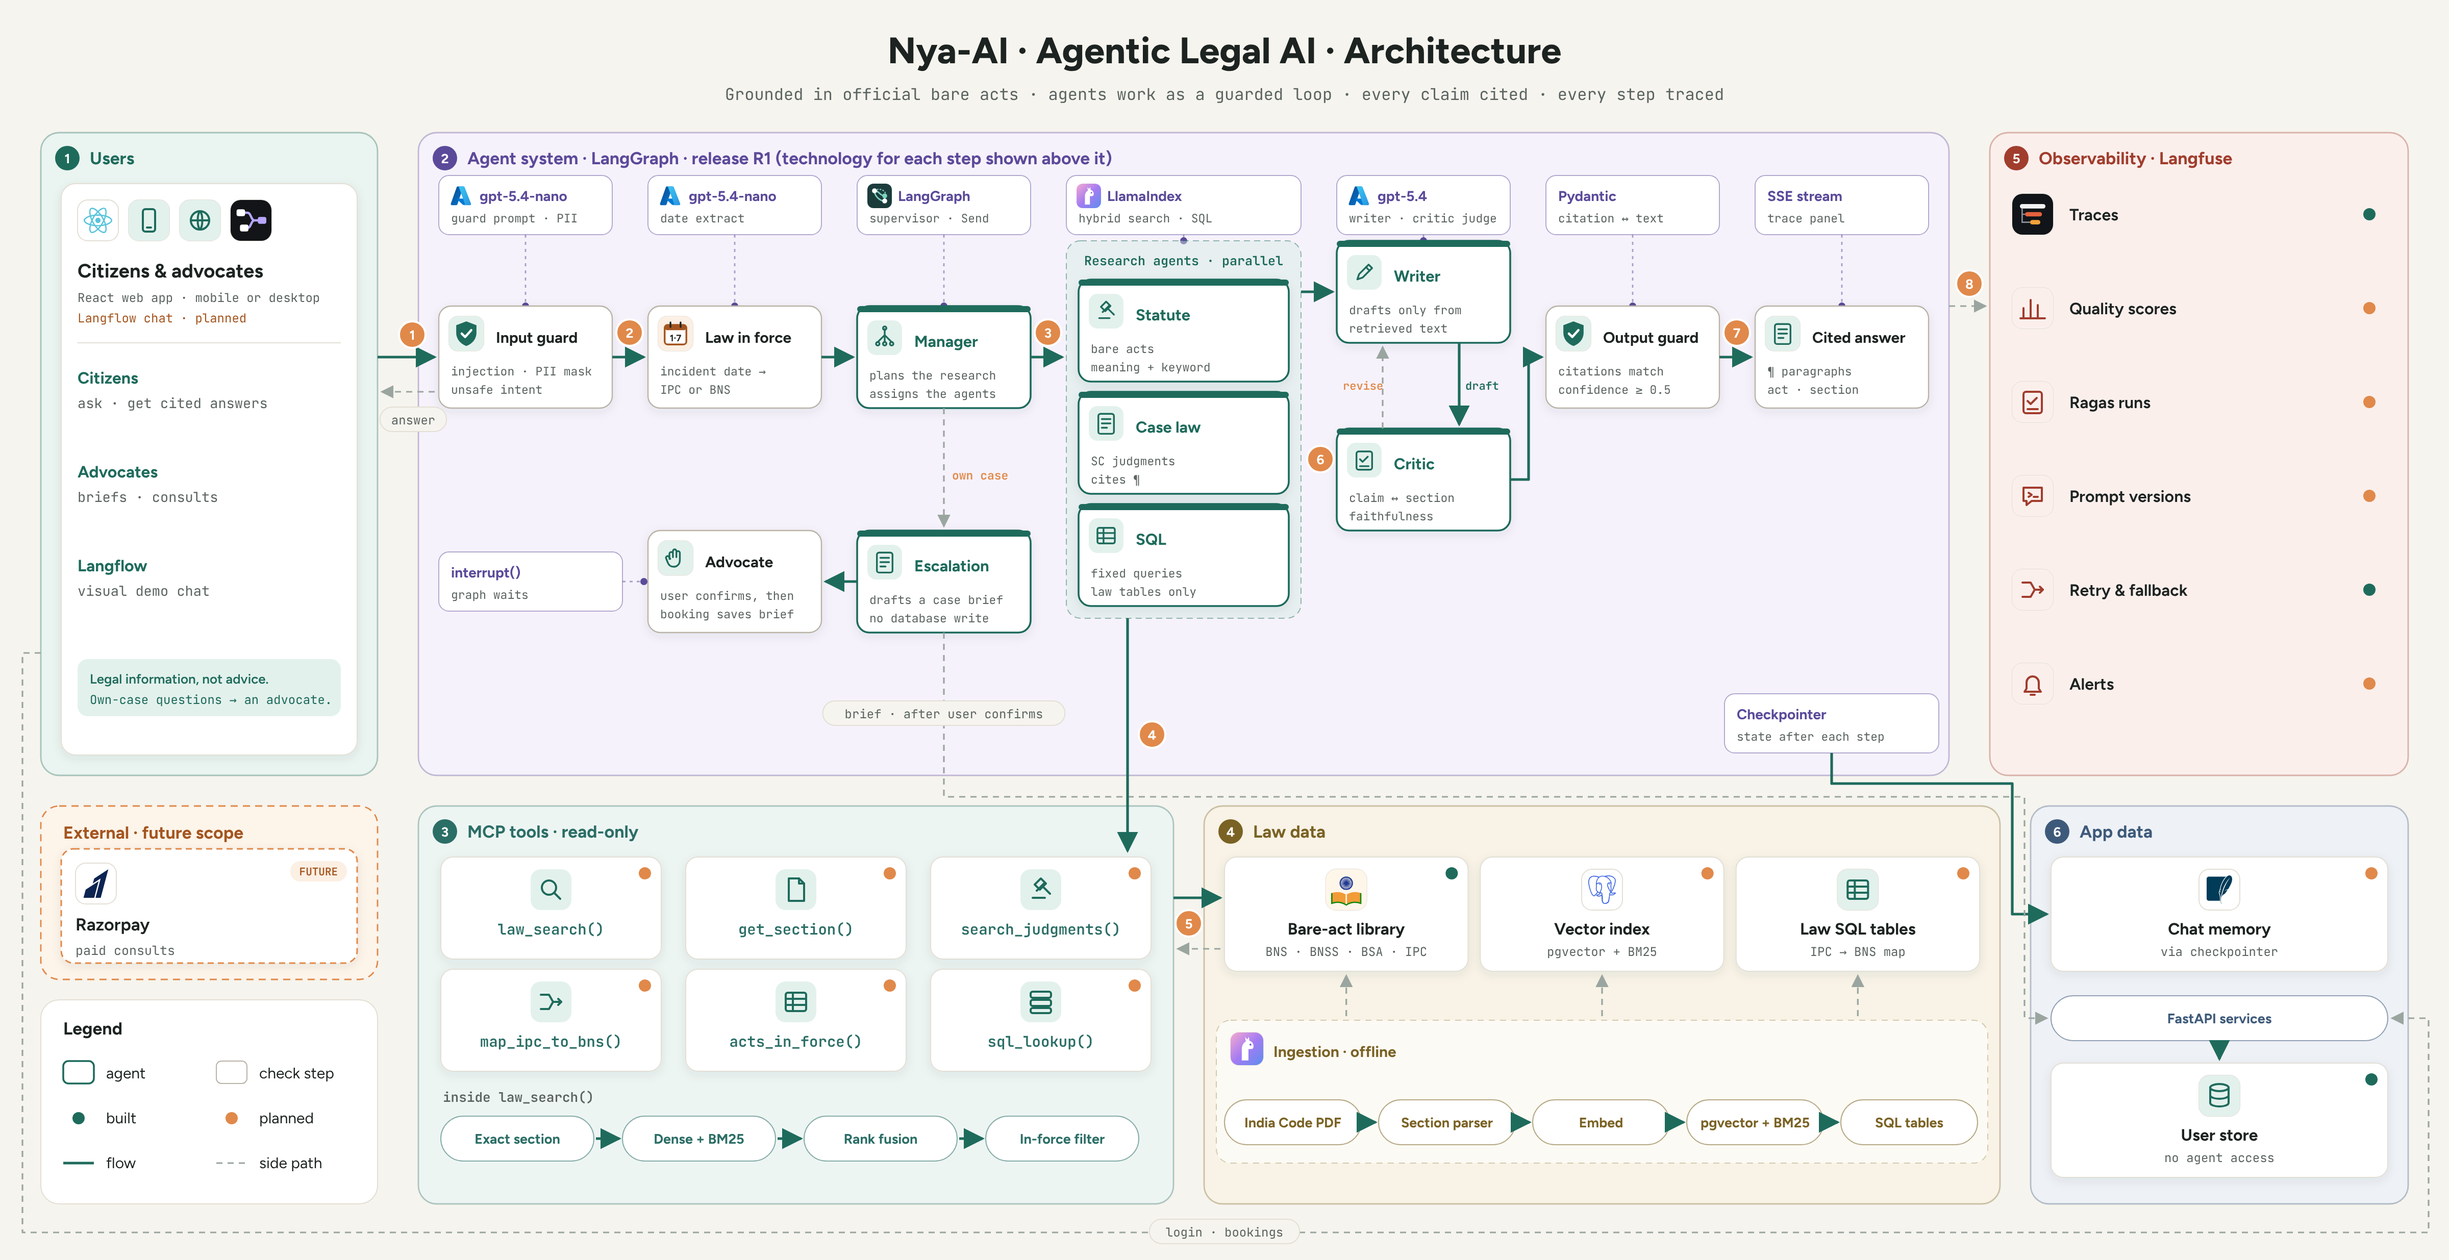
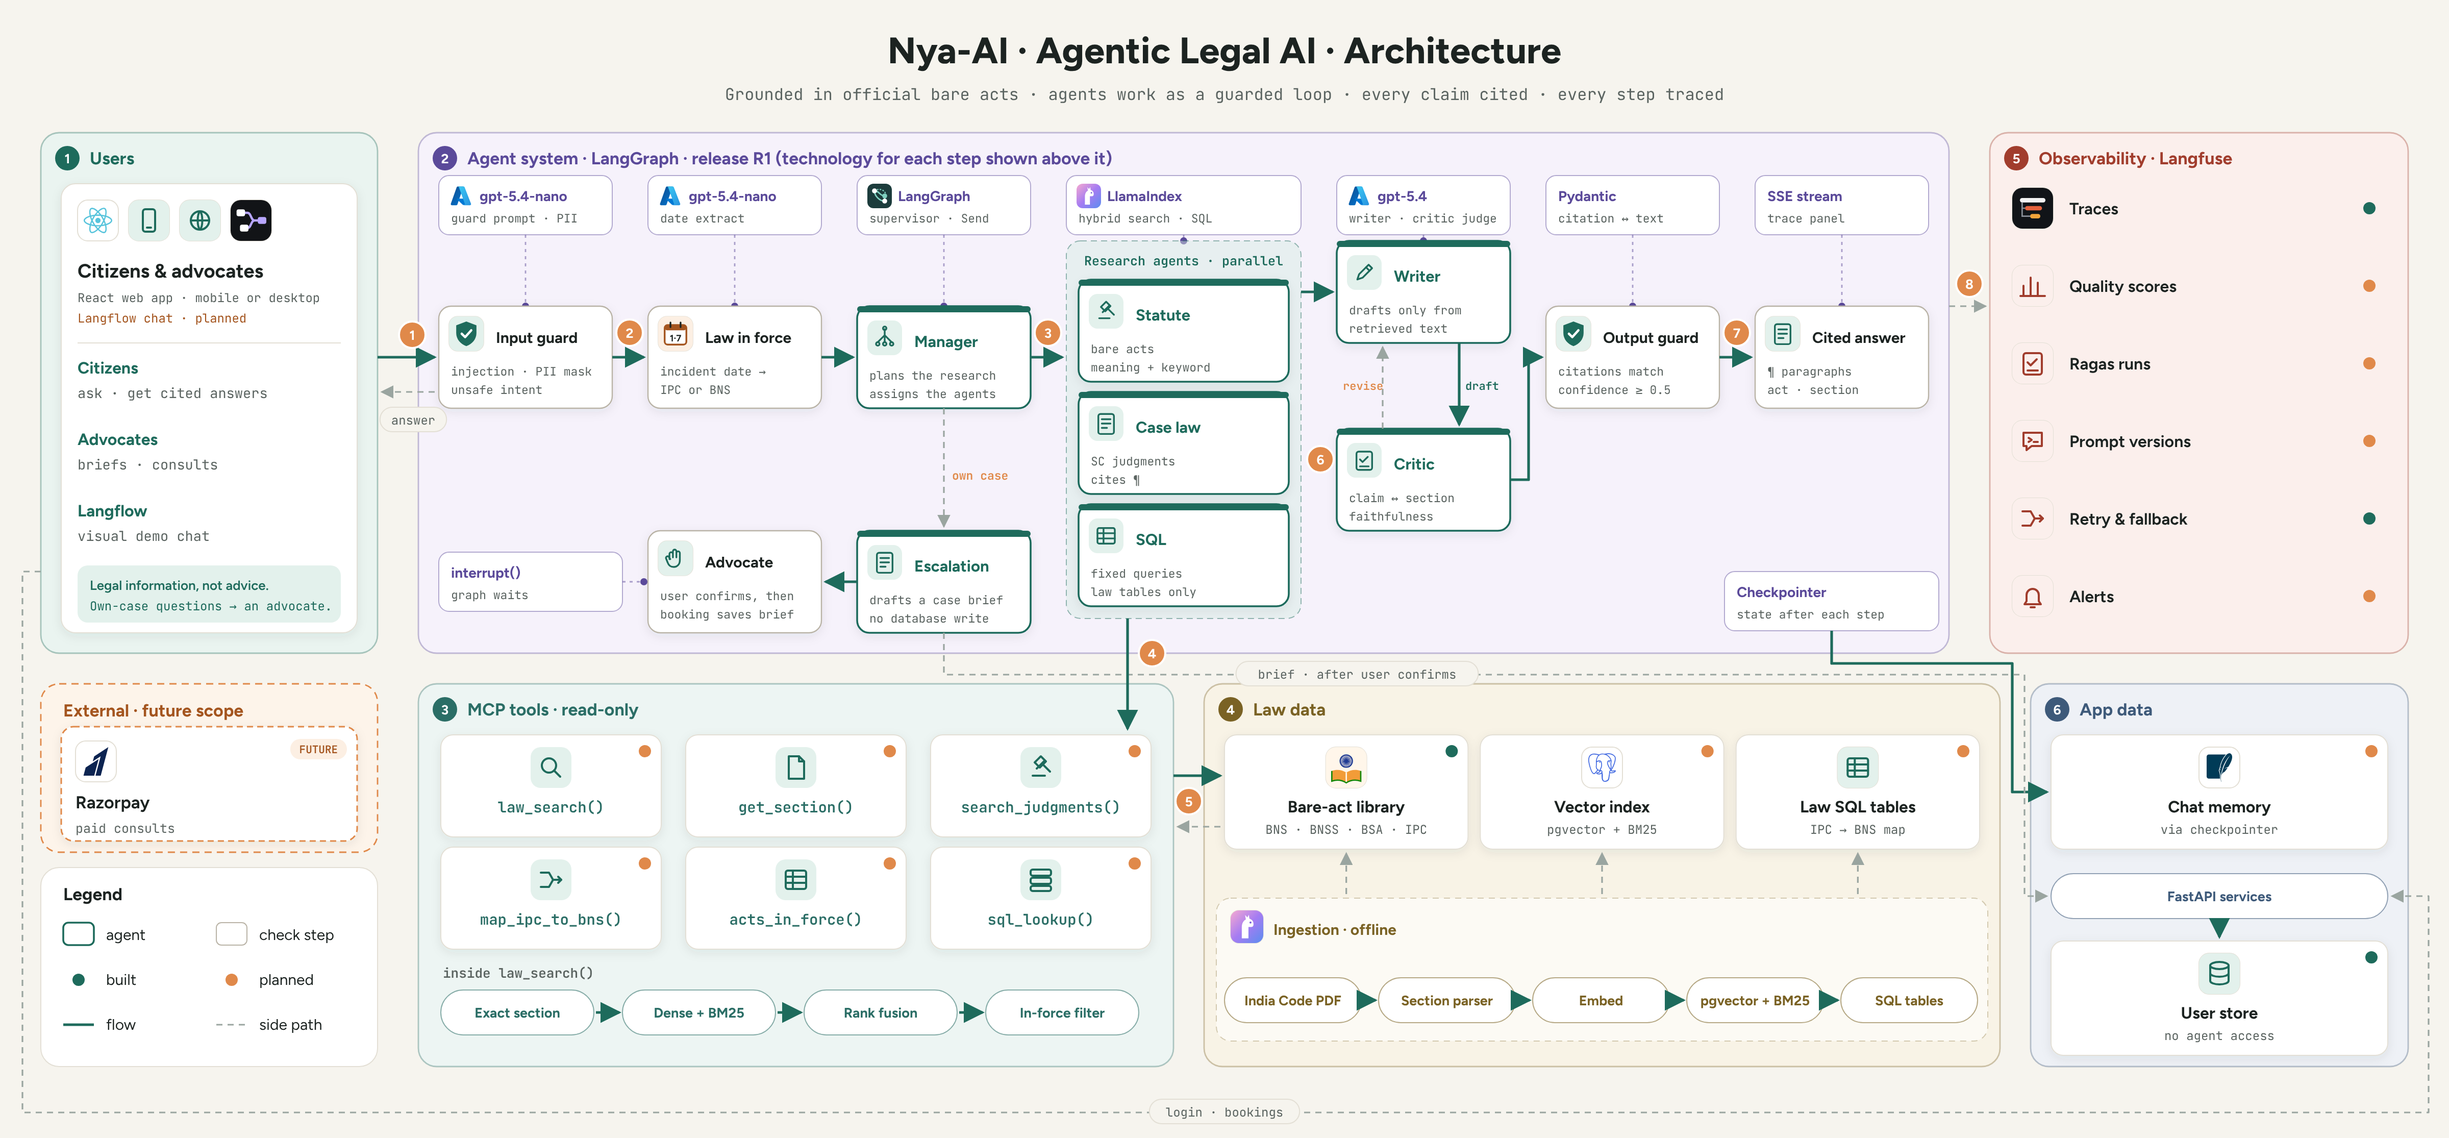
Architecture: compact layout, shorter top row and page
Claude-Session: https://claude.ai/code/session_01LU87o4F4G7N5N385mtQnru

diff --git a/docs/diagrams/draw_v10.py b/docs/diagrams/draw_v10.py
@@ -1,0 +1,246 @@
+"""Nya-AI architecture v10: users, agent system with tech callouts, MCP tools, knowledge base, observability."""
+from draw_detail import icon, tile, txt, box, layer, step, arrow, item, mark_langflow
+from draw import (AMBER, AMBER_T, BG, CLAY, EDGE, INK, LINE, MONO, MUTED, SAGE, SAGE_T, SANS, CARD,
+                  defs, mark_azure, mark_calendar, mark_indiacode, mark_langfuse,
+                  mark_langgraph, mark_llamaindex, mark_shield, simple)
+
+W, H = 2400, 1115
+JADE, JADE_L, JADE_T = "#1E6B5C", "#2C7D6C", "#D5EAE3"
+VIO = "#5B4A9A"
+
+
+def agent(x, y, w, h, ic, title, sub, tag=None):
+    o = [f'<g transform="translate({x},{y})"><rect width="{w}" height="{h}" rx="12" fill="#FFFFFF" stroke="{JADE}" stroke-width="1.8" filter="url(#sh)"/>',
+         f'<rect x="0" y="0" width="{w}" height="6" rx="3" fill="{JADE}"/>',
+         f'<g transform="translate(10,14) scale(.85)">{ic}</g>',
+         txt(56, 40, title, 15.5, 700, JADE), txt(12, 72, sub[0], 11.5, 400, MUTED, MONO)]
+    if len(sub) > 1:
+        o.append(txt(12, 90, sub[1], 11.5, 400, MUTED, MONO))
+    return "".join(o) + "</g>"
+
+
+def ctrl(x, y, w, h, ic, title, sub, dashed=False):
+    stroke = f'stroke="{CLAY}" stroke-dasharray="6 4" stroke-width="1.5"' if dashed else f'stroke="#B9B3A6" stroke-width="1.2"'
+    o = [f'<g transform="translate({x},{y})"><rect width="{w}" height="{h}" rx="12" fill="{CARD}" {stroke} filter="url(#sh)"/>',
+         f'<g transform="translate(10,10) scale(.85)">{ic}</g>', txt(56, 36, title, 15, 700), txt(12, 68, sub[0], 11.5, 400, MUTED, MONO)]
+    if len(sub) > 1:
+        o.append(txt(12, 86, sub[1], 11.5, 400, MUTED, MONO))
+    return "".join(o) + "</g>"
+
+
+def chip(x, y, w, name, stage, logo=None):
+    o = [f'<g transform="translate({x},{y})"><rect width="{w}" height="58" rx="10" fill="#FFFFFF" stroke="{VIO}" stroke-opacity=".45"/>']
+    tx = 12
+    if logo:
+        o.append(f'<g transform="translate(10,8)">{logo}</g>')
+        tx = 40
+    o.append(txt(tx, 25, name, 14, 700, VIO))
+    o.append(txt(12, 46, stage, 11.5, 400, MUTED, MONO))
+    return "".join(o) + "</g>"
+
+
+def pill(x, y, w, title, sub, col):
+    return (f'<g transform="translate({x},{y})"><rect width="{w}" height="56" rx="10" fill="#FFFFFF" stroke="{col}" stroke-opacity=".5"/>'
+            + txt(w / 2, 24, title, 13.5, 700, col, SANS, "middle") + txt(w / 2, 43, sub, 11, 400, MUTED, MONO, "middle") + "</g>")
+
+
+def tcard(x, y, w, h, ic_svg, title, sub=None, mono=False, col=INK, st=None):
+    o = [f'<g transform="translate({x},{y})"><rect width="{w}" height="{h}" rx="12" fill="#FFFFFF" stroke="{LINE}" filter="url(#sh)"/>',
+         f'<g transform="translate({w / 2 - 20},12)">{ic_svg}</g>',
+         txt(w / 2, 76, title, 14.5 if mono else 16, 700, col, MONO if mono else SANS, "middle")]
+    if sub:
+        o.append(txt(w / 2, 97, sub, 12, 400, MUTED, MONO, "middle"))
+    if st:
+        o.append(dot(w - 16, 16, st))
+    return "".join(o) + "</g>"
+
+
+def dot(x, y, st):
+    return f'<circle cx="{x}" cy="{y}" r="6" fill="{SAGE if st == "b" else CLAY}"/>'
+
+
+def tpill(x, y, w, title, col):
+    return (f'<g transform="translate({x},{y})"><rect width="{w}" height="44" rx="22" fill="#FFFFFF" stroke="{col}" stroke-opacity=".55"/>'
+            + txt(w / 2, 27, title, 13.5, 700, col, SANS, "middle") + "</g>")
+
+
+def link(x1, y1, x2, y2):
+    return f'<path d="M{x1},{y1} L{x2},{y2}" stroke="{VIO}" stroke-opacity=".5" stroke-width="1.4" stroke-dasharray="3 4" fill="none"/><circle cx="{x2}" cy="{y2}" r="3.5" fill="{VIO}"/>'
+
+
+def build():
+    b = [txt(W / 2, 62, "Nya-AI · Agentic Legal AI · Architecture", 36, 750, INK, SANS, "middle"),
+         txt(W / 2, 98, "Grounded in official bare acts · agents work as a guarded loop · every claim cited · every step traced", 16, 400, MUTED, MONO, "middle")]
+    LX, LW = 40, 330
+    CX, CW = 410, 1500
+    RX, RW = 1950, 410
+
+    b.append(layer(LX, 130, LW, 510, 1, "Users", "#EAF4F0", SAGE))
+    b.append(layer(CX, 130, CW, 510, 2, "Agent system · LangGraph · release R1   (technology for each step shown above it)", "#F6F2FB", VIO))
+    b.append(layer(RX, 130, RW, 510, 5, "Observability · Langfuse", "#FBEFEC", "#A13D2D"))
+    b.append(layer(CX, 670, 740, 375, 3, "MCP tools · read-only", "#EDF5F3", "#2B6E66"))
+    b.append(layer(CX + 770, 670, 780, 375, 4, "Law data", "#F8F3E6", "#7A6224"))
+    b.append(layer(1990, 670, RX + RW - 1990, 375, 6, "App data", "#EEF1F6", "#3E5A7A"))
+
+    # ---- 1 users: one card ----
+    ux, uy, uw = LX + 20, 180, LW - 40
+    o = [f'<g transform="translate({ux},{uy})"><rect width="{uw}" height="440" rx="14" fill="{CARD}" stroke="{LINE}" filter="url(#sh)"/>']
+    for i, g in enumerate([tile(simple("react", 0, 0, 28)), tile(icon("phone"), 0), tile(icon("globe"), 0), tile(mark_langflow(0, 0, 40), 0)]):
+        o.append(f'<g transform="translate({16 + i * 50},16)">{g}</g>')
+    o.append(txt(16, 92, "Citizens & advocates", 19, 700))
+    o.append(txt(16, 116, "React web app · mobile or desktop", 12, 400, MUTED, MONO))
+    o.append(txt(16, 136, "Langflow chat · planned", 12, 400, AMBER, MONO))
+    o.append(f'<line x1="16" y1="156" x2="{uw - 16}" y2="156" stroke="{LINE}"/>')
+    lines = [("Citizens", "ask · get cited answers"), ("Advocates", "briefs · consults"), ("Langflow", "visual demo chat")]
+    yy = 186
+    for head, rest in lines:
+        o.append(txt(16, yy, head, 16, 700, SAGE))
+        o.append(txt(16, yy + 24, rest, 13.5, 400, MUTED, MONO))
+        yy += 70
+    yy = 360
+    o.append(f'<rect x="16" y="{yy + 14}" width="{uw - 32}" height="56" rx="10" fill="{SAGE_T}"/>')
+    o.append(txt(28, yy + 38, "Legal information, not advice.", 13, 600, SAGE))
+    o.append(txt(28, yy + 58, "Own-case questions → an advocate.", 12, 400, SAGE, MONO))
+    b.append("".join(o) + "</g>")
+
+    # ---- 2 agent system ----
+    X = {"g": 430, "d": 635, "m": 840, "res": 1045, "w": 1310, "o": 1515, "a": 1720}
+    Wd = {"g": 170, "d": 170, "m": 170, "res": 230, "w": 170, "o": 170, "a": 170}
+    MY, MH = 300, 100
+    my = MY + MH / 2
+    chips = [("g", "gpt-5.4-nano", "guard prompt · PII", "azc1"), ("d", "gpt-5.4-nano", "date extract", "azc2"),
+             ("m", "LangGraph", "supervisor · Send", "lg"), ("res", "LlamaIndex", "hybrid search · SQL", "li"),
+             ("w", "gpt-5.4", "writer · critic judge", "azc3"), ("o", "Pydantic", "citation ↔ text", None), ("a", "SSE stream", "trace panel", None)]
+    for k, name, stage, lg in chips:
+        logo = None
+        if lg == "lg":
+            logo = f'<g transform="scale(.6)">{mark_langgraph(0, 0, 40)}</g>'
+        elif lg == "li":
+            logo = f'<g transform="scale(.6)">{mark_llamaindex(0, 0, 40, "llc")}</g>'
+        elif lg:
+            logo = f'<g transform="scale(.6)">{mark_azure(0, 0, 40, lg)}</g>'
+        b.append(chip(X[k], 172, Wd[k], name, stage, logo))
+        top = 236 if k in ("res", "w") else MY
+        b.append(link(X[k] + Wd[k] / 2, 230, X[k] + Wd[k] / 2, top))
+
+    b.append(ctrl(X["g"], MY, 170, MH, tile(mark_shield(0, 0, 40), 0), "Input guard", ["injection · PII mask", "unsafe intent"]))
+    b.append(ctrl(X["d"], MY, 170, MH, tile(mark_calendar(0, 0, 40), 0), "Law in force", ["incident date →", "IPC or BNS"]))
+    b.append(agent(X["m"], MY, 170, MH, icon("split"), "Manager", ["plans the research", "assigns the agents"]))
+    # research group
+    gx0, gw0 = X["res"], Wd["res"]
+    b.append(f'<rect x="{gx0}" y="236" width="{gw0}" height="370" rx="14" fill="{JADE_T}" fill-opacity=".45" stroke="{JADE}" stroke-opacity=".45" stroke-dasharray="6 4"/>')
+    b.append(txt(gx0 + gw0 / 2, 260, "Research agents · parallel", 12.5, 700, JADE, MONO, "middle"))
+    res = [("Statute", ["bare acts", "meaning + keyword"], "gavel"), ("Case law", ["SC judgments", "cites ¶"], "brief"), ("SQL", ["fixed queries", "law tables only"], "table")]
+    for n_, (t_, s_, ic) in enumerate(res):
+        b.append(agent(gx0 + 12, 274 + n_ * 110, gw0 - 24, 100, icon(ic), t_, s_))
+    b.append(agent(X["w"], 236, 170, MH, icon("pen"), "Writer", ["drafts only from", "retrieved text"]))
+    b.append(agent(X["w"], 420, 170, MH, icon("check"), "Critic", ["claim ↔ section", "faithfulness"]))
+    b.append(ctrl(X["o"], MY, 170, MH, tile(mark_shield(0, 0, 40), 0), "Output guard", ["citations match", "confidence ≥ 0.5"]))
+    b.append(ctrl(X["a"], MY, 170, MH, tile(icon("brief"), 0), "Cited answer", ["¶ paragraphs", "act · section"]))
+    b.append(agent(X["m"], 520, 170, MH, icon("brief"), "Escalation", ["drafts a case brief", "no database write"]))
+    b.append(ctrl(X["d"], 520, 170, MH, tile(icon("hand"), 0), "Advocate", ["user confirms, then", "booking saves brief"]))
+    b.append(chip(X["g"], 541, 180, "interrupt()", "graph waits", None))
+    b.append(link(X["g"] + 180, 570, X["d"] - 4, 570))
+
+    # connections: one clear lane, one arrow per hand-off
+    b.append(arrow([(LX + LW, my), (X["g"] - 4, my)], main=True)); b.append(step(1, LX + LW + 34, my - 22))
+    b.append(arrow([(X["g"] - 4, my + 34), (LX + LW + 4, my + 34)], dashed=True, label="answer", lx=LX + LW + 35, ly=my + 62))
+    b.append(arrow([(X["g"] + 170, my), (X["d"] - 4, my)], main=True)); b.append(step(2, X["g"] + 187, my - 24))
+    b.append(arrow([(X["d"] + 170, my), (X["m"] - 4, my)], main=True))
+    b.append(arrow([(X["m"] + 170, my), (gx0 - 4, my)], main=True)); b.append(step(3, X["m"] + 187, my - 24))
+    b.append(arrow([(gx0 + gw0, 286), (X["w"] - 4, 286)], main=True))
+    b.append(arrow([(X["w"] + 120, 336), (X["w"] + 120, 416)], main=True))
+    b.append(txt(X["w"] + 126, 382, "draft", 11, 600, JADE, MONO))
+    b.append(arrow([(X["w"] + 45, 420), (X["w"] + 45, 340)], dashed=True))
+    b.append(txt(X["w"] + 6, 382, "revise", 11, 600, CLAY, MONO))
+    b.append(step(6, X["w"] - 16, 450))
+    b.append(arrow([(X["w"] + 170, 470), (X["w"] + 188, 470), (X["w"] + 188, my), (X["o"] - 4, my)], main=True))
+    b.append(arrow([(X["o"] + 170, my), (X["a"] - 4, my)], main=True)); b.append(step(7, X["o"] + 187, my - 24))
+    b.append(arrow([(X["m"] + 85, MY + MH), (X["m"] + 85, 516)], dashed=True))
+    b.append(txt(X["m"] + 93, 470, "own case", 11.5, 600, CLAY, MONO))
+    b.append(arrow([(X["m"], 570), (X["d"] + 174, 570)], main=True))
+    b.append(arrow([(CX + CW, 300), (RX - 4, 300)], dashed=True)); b.append(step(8, CX + CW + 20, 278))
+    sx, sw = gx0, gw0
+
+    # ---- 5 observability ----
+    obs = [(tile(mark_langfuse(0, 0, 40), 0), "Traces", "one span per agent step", "BUILT"),
+           (tile(icon("chart", "#FBEFEC", "#A13D2D"), 0), "Quality scores", "faithfulness · relevancy", "R4"),
+           (tile(icon("check", "#FBEFEC", "#A13D2D"), 0), "Ragas runs", "50 golden + 10 probes", "R4"),
+           (tile(icon("prompt", "#FBEFEC", "#A13D2D"), 0), "Prompt versions", "each agent's prompt", "R1"),
+           (tile(icon("fuse", "#FBEFEC", "#A13D2D"), 0), "Retry & fallback", "rule engine if a model fails", "BUILT"),
+           (tile(icon("bell", "#FBEFEC", "#A13D2D"), 0), "Alerts", "tool errors · critic rejects", "R4")]
+    for i, (g, t, s_, tag) in enumerate(obs):
+        b.append(f'<g transform="translate({RX + 22},{184 + i * 76})">{g}' + txt(56, 26, t, 16, 650) + dot(RW - 60, 20, "b" if tag == "BUILT" else "p") + "</g>")
+
+    # ---- 3 retrieval: MCP tools ----
+    tools = [("law_search()", "search"), ("get_section()", "file"), ("search_judgments()", "gavel"),
+             ("map_ipc_to_bns()", "fuse"), ("acts_in_force()", "table"), ("sql_lookup()", "dataset")]
+    for i, (t_, ic_) in enumerate(tools):
+        c, r = i % 3, i // 3
+        b.append(tcard(CX + 22 + c * 240, 720 + r * 110, 216, 100, icon(ic_), t_, mono=True, col="#2B6E66", st="p"))
+    b.append(txt(CX + 24, 958, "inside law_search()", 13, 600, MUTED, MONO))
+    rchain = ["Exact section", "Dense + BM25", "Rank fusion", "In-force filter"]
+    for i, a_ in enumerate(rchain):
+        x = CX + 22 + i * 178
+        b.append(tpill(x, 970, 150, a_, "#2B6E66"))
+        if i:
+            b.append(arrow([(x - 26, 992), (x - 3, 992)], main=True))
+
+    # ---- 4 law data + ingestion ----
+    kx, kwid = CX + 790, 740
+    kw = (kwid - 24) / 3
+    kb = [("Bare-act library", "BNS · BNSS · BSA · IPC", tile(mark_indiacode(0, 0, 40), 0), "b"),
+          ("Vector index", "pgvector + BM25", tile(simple("postgresql", 0, 0, 28)), "p"),
+          ("Law SQL tables", "IPC → BNS map", tile(icon("table"), 0), "p")]
+    for i, (t_, sub, ic_, st) in enumerate(kb):
+        b.append(tcard(kx + i * (kw + 12), 720, kw, 112, ic_, t_, sub, st=st))
+        cxm = kx + i * (kw + 12) + kw / 2
+        b.append(arrow([(cxm, 876), (cxm, 836)], dashed=True))
+    b.append(f'<rect x="{kx - 8}" y="880" width="{kwid + 16}" height="140" rx="14" fill="#FFFFFF" fill-opacity=".55" stroke="#7A6224" stroke-opacity=".3" stroke-dasharray="6 5"/>')
+    b.append(f'<g transform="translate({kx + 6},892) scale(.8)">{tile(mark_llamaindex(0, 0, 40, "ll9"), 0)}</g>')
+    b.append(txt(kx + 48, 916, "Ingestion · offline", 15, 700, "#7A6224"))
+    ichain = ["India Code PDF", "Section parser", "Embed", "pgvector + BM25", "SQL tables"]
+    pw, pg = 134, 17
+    for i, a_ in enumerate(ichain):
+        x = kx + i * (pw + pg)
+        b.append(tpill(x, 958, pw, a_, "#7A6224"))
+        if i:
+            b.append(arrow([(x - pg + 2, 980), (x - 3, 980)], main=True))
+
+    # ---- 6 app data: direct, never via MCP ----
+    ax, aw = 2010, RX + RW - 2030
+    b.append(tcard(ax, 720, aw, 112, tile(simple("sqlite", 0, 0, 28)), "Chat memory", "via checkpointer", st="p"))
+    b.append(tpill(ax, 856, aw, "FastAPI services", "#3E5A7A"))
+    b.append(arrow([(ax + aw / 2, 900), (ax + aw / 2, 918)], main=True))
+    b.append(tcard(ax, 922, aw, 112, tile(icon("db"), 0), "User store", "no agent access", st="b"))
+    b.append(chip(1690, 560, 210, "Checkpointer", "state after each step", None))
+    b.append(arrow([(1795, 618), (1795, 650), (1972, 650), (1972, 776), (ax - 4, 776)], main=True))
+    b.append(arrow([(LX, 560), (22, 560), (22, 1090), (2380, 1090), (2380, 878), (ax + aw + 4, 878)], dashed=True,
+                   label="login · bookings", lx=1200, ly=1090))
+    b.append(arrow([(925, 620), (925, 661), (1984, 661), (1984, 878), (ax - 4, 878)], dashed=True,
+                   label="brief · after user confirms", lx=1330, ly=661))
+
+    # wiring
+    b.append(arrow([(sx + 60, 606), (sx + 60, 714)], main=True)); b.append(step(4, sx + 84, 640))
+    b.append(arrow([(CX + 740, 760), (kx - 4, 760)], main=True))
+    b.append(arrow([(kx - 4, 810), (CX + 744, 810)], dashed=True)); b.append(step(5, CX + 755, 785))
+
+    # ---- external (future) + legend ----
+    b.append(f'<rect x="{LX}" y="670" width="{LW}" height="165" rx="18" fill="#FDF4EA" stroke="{CLAY}" stroke-dasharray="7 5" stroke-width="1.4"/>')
+    b.append(txt(LX + 22, 702, "External · future scope", 17, 700, AMBER))
+    b.append(box(LX + 20, 712, LW - 40, 112, "Razorpay", ["paid consults"],
+                 [tile(simple("razorpay", 0, 0, 28, "#0C2451"))], "FUTURE", planned=True))
+    b.append(f'<rect x="{LX}" y="850" width="{LW}" height="195" rx="18" fill="#FFFFFF" stroke="{LINE}"/>')
+    b.append(txt(LX + 22, 882, "Legend", 17, 700))
+    b.append(f'<rect x="{LX + 22}" y="904" width="30" height="22" rx="5" fill="#FFFFFF" stroke="{JADE}" stroke-width="1.8"/>' + txt(LX + 64, 921, "agent", 15))
+    b.append(f'<rect x="{LX + 172}" y="904" width="30" height="22" rx="5" fill="#FFFFFF" stroke="#B9B3A6"/>' + txt(LX + 214, 921, "check step", 15))
+    b.append(dot(LX + 37, 960, "b") + txt(LX + 64, 965, "built", 15))
+    b.append(dot(LX + 187, 960, "p") + txt(LX + 214, 965, "planned", 15))
+    b.append(f'<path d="M{LX + 22},1004 h30" stroke="{SAGE}" stroke-width="2.6"/>' + txt(LX + 64, 1009, "flow", 15))
+    b.append(f'<path d="M{LX + 172},1004 h30" stroke="{EDGE}" stroke-width="1.6" stroke-dasharray="6 5"/>' + txt(LX + 214, 1009, "side path", 15))
+    return (f'<svg xmlns="http://www.w3.org/2000/svg" viewBox="0 0 {W} {H}" width="{W}" height="{H}" role="img" '
+            f'aria-label="Nya-AI architecture"><rect width="{W}" height="{H}" fill="{BG}"/>{defs()}' + "\n".join(b) + "</svg>")
+
+
+open("architecture-detailed.svg", "w").write(build())
+print("ok")

diff --git a/docs/DECISIONS.md b/docs/DECISIONS.md
@@ -17,7 +17,7 @@ life under another name; the full history is in git.
   read another user's records.
 - The escalation agent only drafts the case brief. The booking service saves it after the user
   confirms. There is no `create_brief` MCP tool.
-- Diagram: `docs/diagrams/architecture-detailed.*`, generated by `draw_v9.py`.
+- Diagram: `docs/diagrams/architecture-detailed.*`, generated by `draw_v10.py`.
 
 ## Sage & Clay theme (2026-10-30)
 
